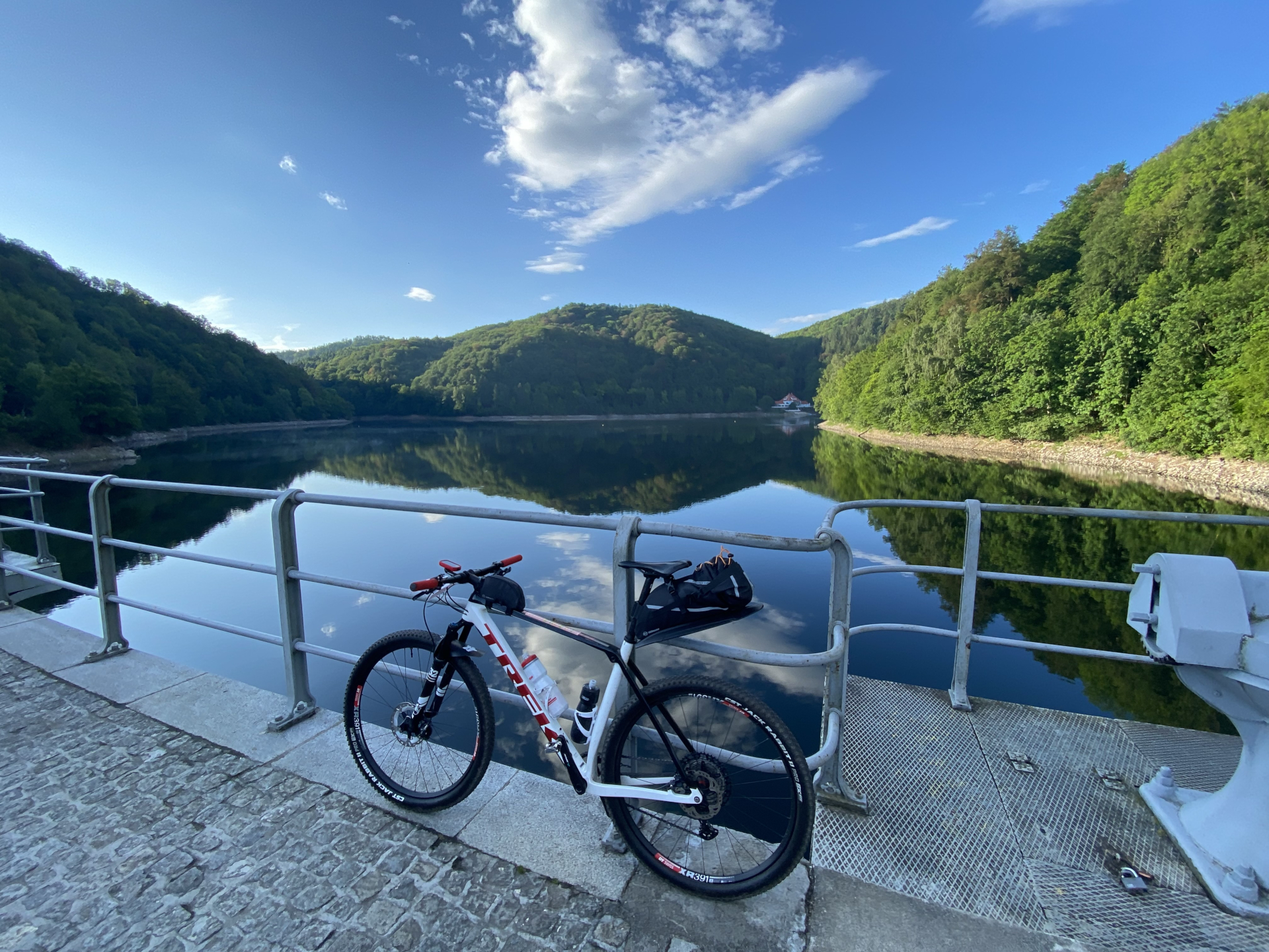
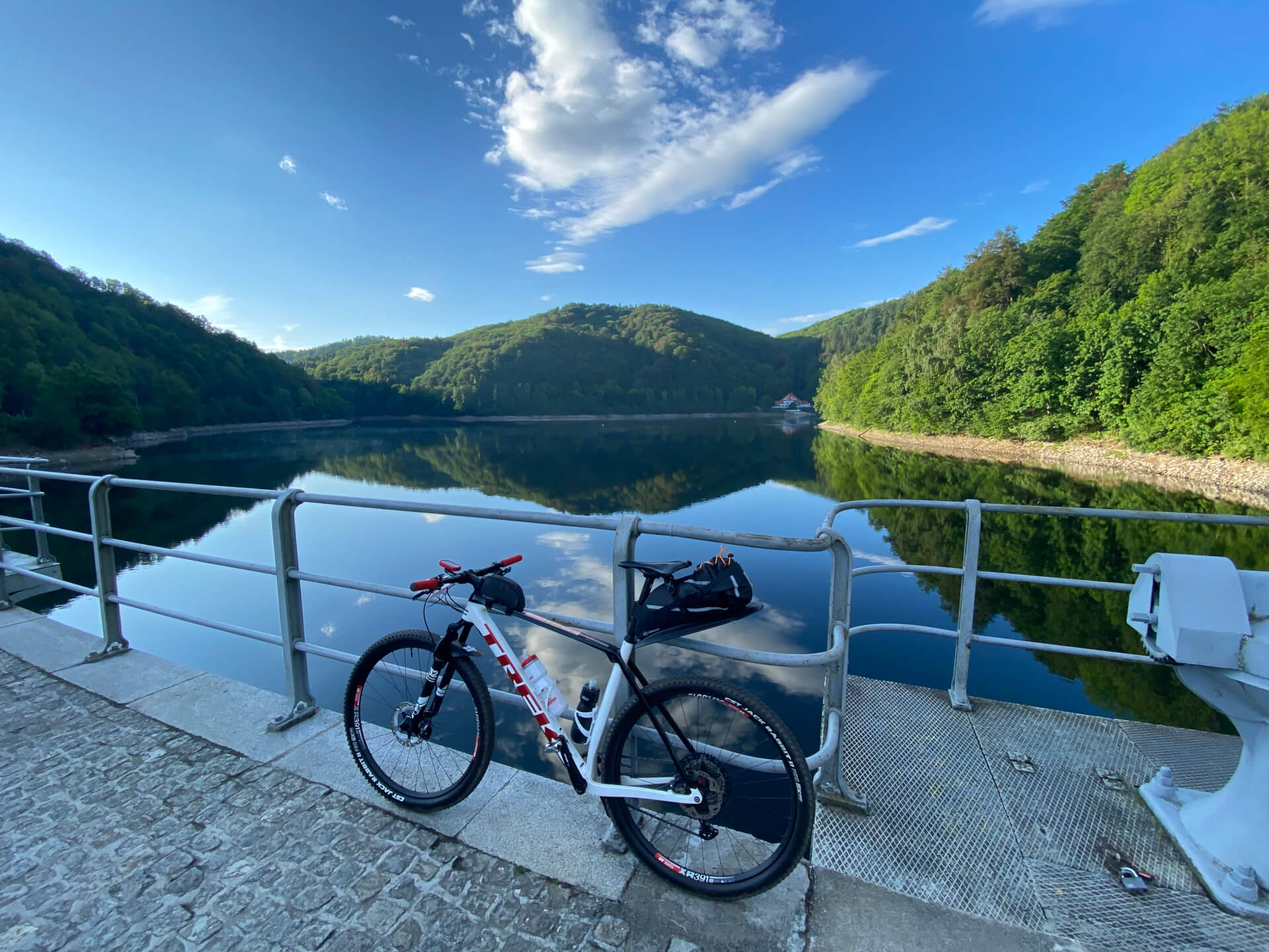
minified images

diff --git a/src/components/main/group.module.css b/src/components/main/group.module.css
@@ -2,7 +2,7 @@
     position: relative;
     padding: 5em 1em;
     background-color: #393E46;
-    background-image: url('../../../public/7s.JPG');
+    background-image: url('../../../public/7s.jpg');
     background-size: cover;
     background-repeat: no-repeat;
     background-position: center center;
@@ -90,6 +90,6 @@
 }
 @media(min-width:992px){
     .group{
-        background-image: url('../../../public/7.JPG');
+        background-image: url('../../../public/7.jpg');
     }
 }

diff --git a/src/components/main/about.module.css b/src/components/main/about.module.css
@@ -28,7 +28,7 @@
     position: relative;
     width: 250px;
     height: 250px;
-    background-image: url('../../../public/abt.JPG');
+    background-image: url('../../../public/abt.jpg');
     background-size: cover;
     background-position: center top;
     background-repeat: no-repeat;
